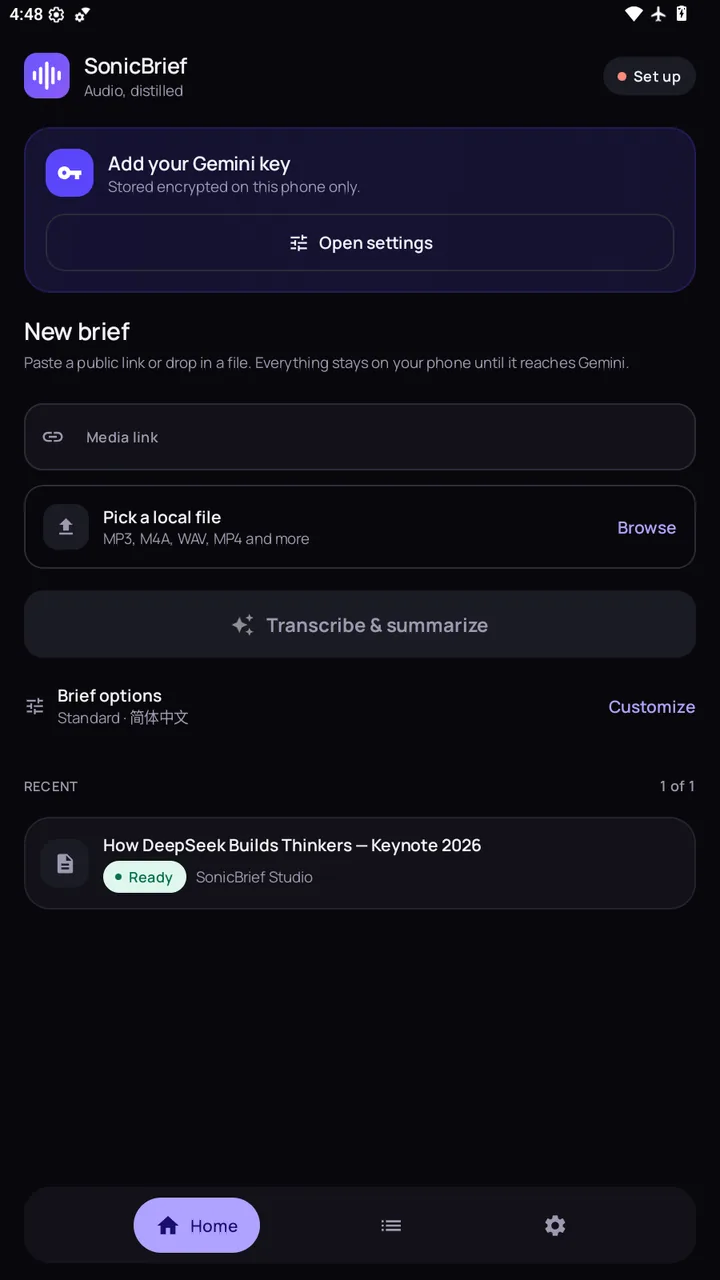
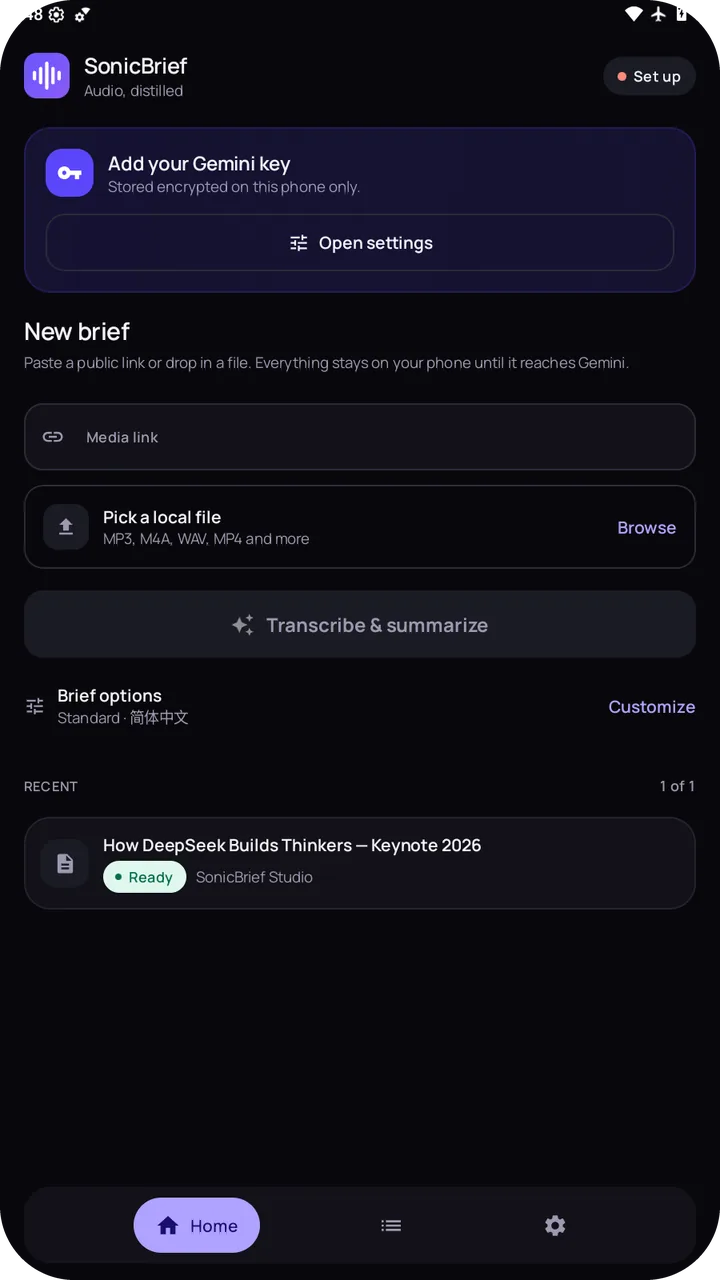
Site: give the phone captures a real device bezel
The 12px mat was the ugly part: it left a straight-edged rectangle floating
inside a curved frame. The screen curve is now baked into each WebP with a
supersampled alpha mask (radius 74px at 720px wide, which lands on 30px at the
size the site renders), so the capture sits flush under a 4px graphite bezel and
the corners follow the device instead of being sliced by it.

The only pixels the mask removes are the flat #f7f7fb background in each corner
(verified: all four corners of all five light captures are that exact colour,
and #08080c for the dark one). A hairline inside the screen edge keeps a dark
capture from disappearing into a dark page.

diff --git a/site/assets/css/styles.css b/site/assets/css/styles.css
@@ -1708,26 +1708,42 @@
      exactly 9:16, so the whole screenshot fits and nothing is cropped away by
      object-fit. The 1px inner ring gives the white app a finished edge against
      the black bezel instead of a hard clipped rectangle. */
-  /* A device frame that cannot crop. The bezel is rounded, the screen inside it
-     keeps a 12px mat, and the capture sits square inside that mat — so the
-     curved edge stops roughly 3px short of the image's corners at the diagonal.
-     Every pixel of the screenshot stays visible. */
+  /* Device frame. The capture carries its own 30px corner curve (baked into the
+     WebP with an alpha mask, see build_site_assets.py), so it sits flush inside
+     a 4px bezel instead of showing a straight edge inside a rounded window. The
+     only transparent pixels are the flat background in each corner. */
   .phone {
     position: relative;
-    width: 320px;
-    padding: 8px;
-    border-radius: 40px;
-    background: linear-gradient(155deg, #34343f 0%, #17171f 42%, #0a0a0f 100%);
+    width: 300px;
+    padding: 4px;
+    border-radius: 34px;
+    background: linear-gradient(168deg, #565667 0%, #2b2b36 38%, #191921 72%, #2e2e39 100%);
     box-shadow:
-      0 30px 60px -32px rgba(8, 8, 20, 0.75),
-      inset 0 0 0 1px rgba(255, 255, 255, 0.13);
-    transition: transform 0.26s var(--ease), box-shadow 0.3s var(--ease);
+      0 24px 44px -26px rgba(8, 8, 20, 0.55),
+      0 70px 90px -60px rgba(20, 14, 60, 0.5),
+      inset 0 0 0 1px rgba(255, 255, 255, 0.24);
+    transition: transform 0.28s var(--ease), box-shadow 0.3s var(--ease);
   }
 
   .phone__screen {
-    padding: 12px;
-    border-radius: 32px;
-    background: #07070b;
+    border-radius: 30px;
+    overflow: hidden;
+    background: #0a0a0f;
+  }
+
+  /* A hairline just inside the screen edge. Without it a dark capture on a dark
+     page reads as nothing at all. */
+  .phone::after {
+    content: "";
+    position: absolute;
+    inset: 4px;
+    border-radius: 30px;
+    box-shadow: inset 0 0 0 1px rgba(9, 9, 11, 0.1);
+    pointer-events: none;
+  }
+
+  html[data-theme="dark"] .phone::after {
+    box-shadow: inset 0 0 0 1px rgba(255, 255, 255, 0.16);
   }
 
   .phone__screen img {
@@ -1737,7 +1753,7 @@
   }
 
   .phone--panel {
-    width: 296px;
+    width: 276px;
   }
 
   /* --- browser frame ----------------------------------------------------- */
@@ -1824,14 +1840,15 @@
   }
 
   .shot .phone {
-    width: min(320px, 100%);
+    width: min(300px, 100%);
   }
 
   .shot:hover .phone {
-    transform: translateY(-4px);
+    transform: translateY(-5px);
     box-shadow:
-      0 38px 70px -34px rgba(8, 8, 20, 0.8),
-      inset 0 0 0 1px rgba(255, 255, 255, 0.18);
+      0 30px 50px -26px rgba(8, 8, 20, 0.6),
+      0 80px 100px -60px rgba(20, 14, 60, 0.55),
+      inset 0 0 0 1px rgba(255, 255, 255, 0.24);
   }
 
   .shot figcaption {
@@ -2353,7 +2370,7 @@
 
     .shot .phone {
       width: 100%;
-      max-width: 320px;
+      max-width: 300px;
     }
 
     .privacy__grid {

diff --git a/scripts/build_site_assets.py b/scripts/build_site_assets.py
@@ -43,6 +43,8 @@ FONT_OUT = ROOT / "site" / "assets" / "fonts"
 DESKTOP_CROP = (0, 29, 0, 0)
 DESKTOP_WIDTHS = (1920, 960)
 ANDROID_WIDTH = 720
+# 30 / 292 — the screen radius at the size the site renders it.
+ANDROID_RADIUS_RATIO = 30 / 292
 
 WEBP_QUALITY = 82
 
@@ -117,7 +119,22 @@ def build_android() -> None:
         with Image.open(source) as raw:
             shot = raw.convert("RGB")
         height = round(shot.height * ANDROID_WIDTH / shot.width)
-        webp(shot.resize((ANDROID_WIDTH, height), Image.LANCZOS), IMG_OUT / f"{stem}.webp")
+        resized = shot.resize((ANDROID_WIDTH, height), Image.LANCZOS).convert("RGBA")
+        radius = round(ANDROID_WIDTH * ANDROID_RADIUS_RATIO)
+        resized.putalpha(corner_mask(resized.size, radius))
+        out = IMG_OUT / f"{stem}.webp"
+        resized.save(out, "WEBP", quality=WEBP_QUALITY, method=6)
+        log(f"{out.relative_to(ROOT)}  {resized.width}x{resized.height}  radius {radius}px  {out.stat().st_size / 1024:.0f} KB")
+
+
+def corner_mask(size: tuple[int, int], radius: int, scale: int = 4) -> Image.Image:
+    """Antialiased rounded-rectangle alpha mask (supersampled 4x)."""
+    width, height = size
+    big = Image.new("L", (width * scale, height * scale), 0)
+    ImageDraw.Draw(big).rounded_rectangle(
+        (0, 0, width * scale - 1, height * scale - 1), radius * scale, fill=255
+    )
+    return big.resize(size, Image.LANCZOS)
 
 
 def rounded(image: Image.Image, radius: int) -> Image.Image:
